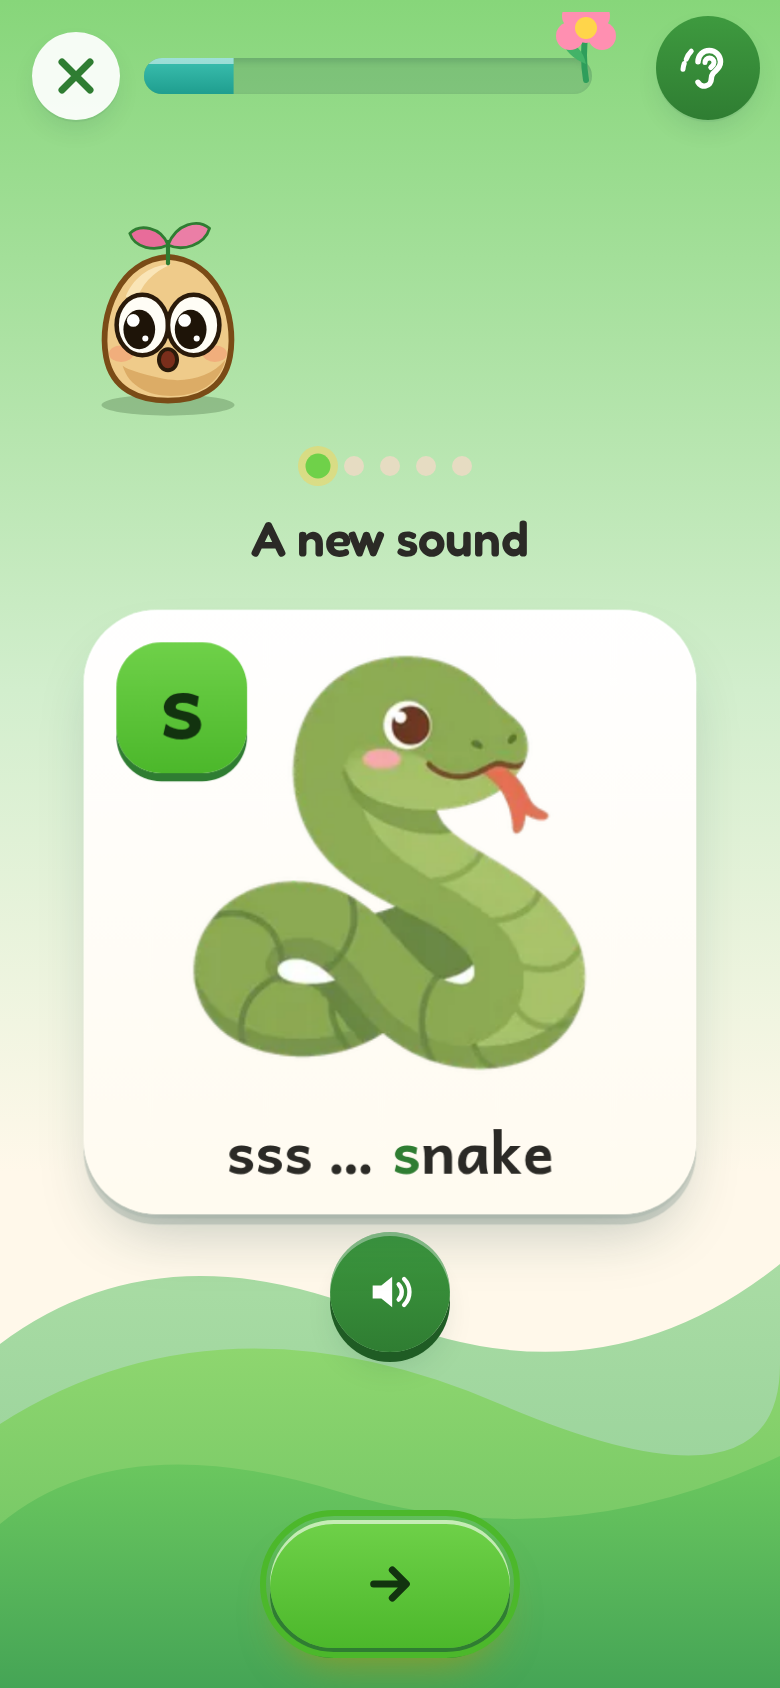
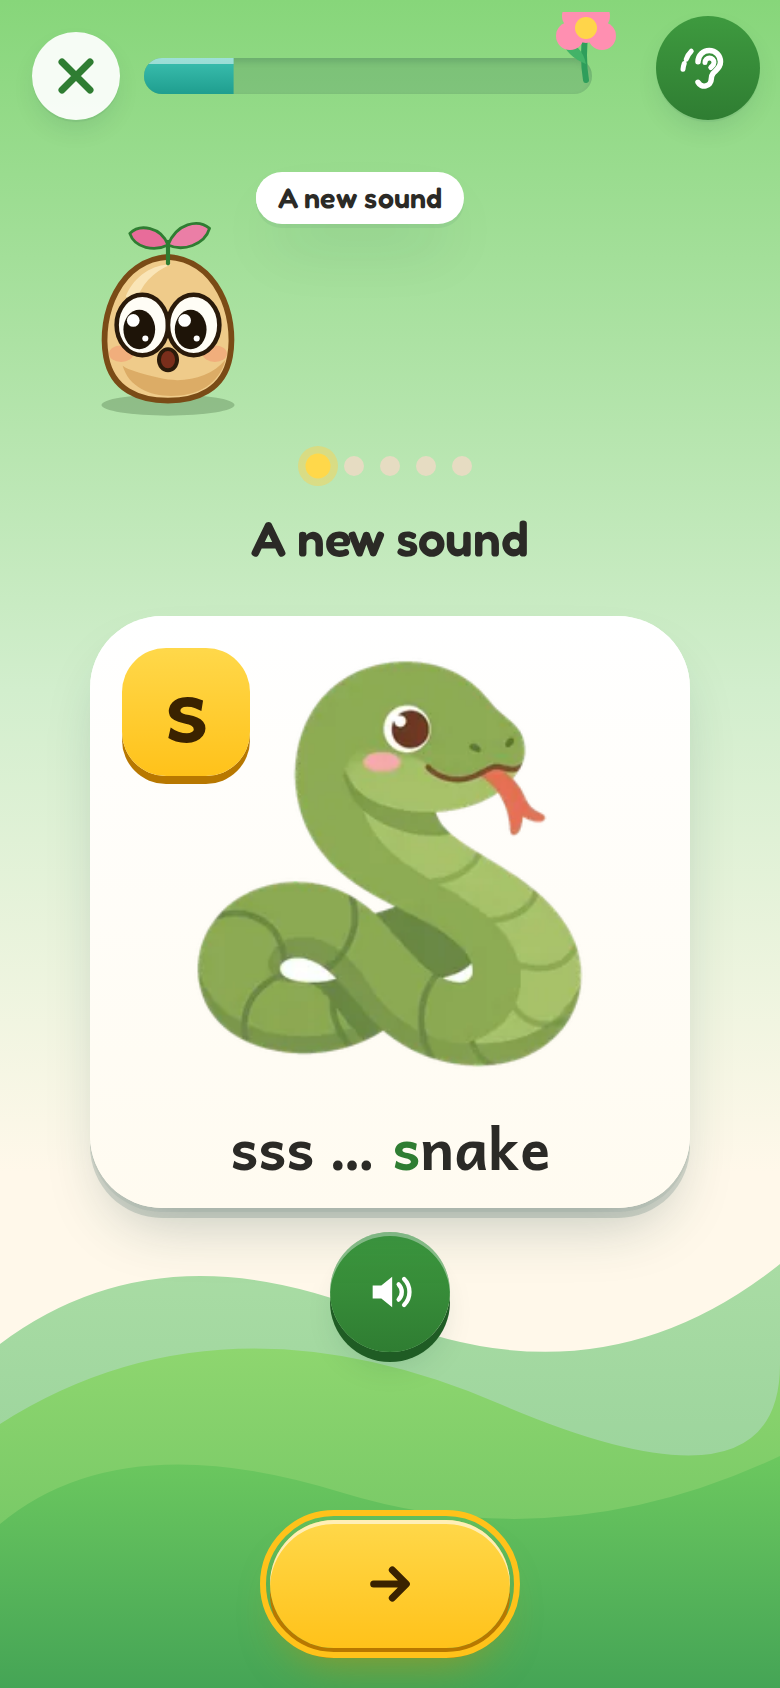
plan: PORT-VERDICT, README screenshots refreshed

diff --git a/plan/PORT-VERDICT.md b/plan/PORT-VERDICT.md
@@ -1,0 +1,55 @@
+# Port verdict: Sound Out into Sound Garden (branch `port-sound-out`)
+
+Written honestly, 2026-10-13. Source: Sound Out master f55dc34c (Back-nav table, Practice hub, Teach-with-Sound-Out PDF included).
+
+## What carried
+
+| Area | Result | Evidence |
+|---|---|---|
+| Levels 1-7, 108 lessons, lexicon, gate options | carried verbatim (`so/content`) | `check_practice_links.py`: 108 lessons + 7 level PDFs |
+| 43 isolated sounds (v2), 5-step meet-a-sound flow, all voiced clips | carried: 7,925 clips, 78 MB, one request per clip, cached as played | `check_ph_keys.py`: 112 v2 keys OK; drive: no missing clips |
+| Sounds, blending, words, sentences, read, listen, check | carried (the Sound Out engine runs unchanged) | `drive.py --until L1.02`, `drive_session.py` (L5-7): ALL CHECKS GREEN |
+| Failed check = not a pass, reteach redirect, park after 2 | carried | `check_failed_check.py`: GREEN |
+| Track A (child, Sprig) / Track B (grown-up, calm, no mascot) | carried | drivers walk both |
+| Sound it out | carried, URL `#/play/sound-it-out` | `drive_sayit.py`: GREEN |
+| Practice area (hear, trace, which word, replay) | carried, URL `#/play/practice` | `drive_practice.py`: GREEN |
+| Practice PDFs per lesson, level bundles, Teach-with-Sound-Out guide | carried; plus new `#/teach` page (no sum gate) with routine, do/don't, 109 PDF links | `check_urls.py`: every link 200 and `%PDF` |
+| Onboarding, nav, back/home everywhere | carried; browser Back mapped onto Sound Out's hardware-Back table | `check_nav.py`: 0 problems; `check_urls.py` GREEN |
+| Pedagogy fixes (whole word after sounds, no kid timer, helper mode, taught-letters-only foils) | carried as engine/data | `check_decodable.py` (see caveat 3) |
+| Finch rules (no account, no age question, no typing for pre-readers, no loss streaks, no paywall) | carried and now gated | `check_finch.py`: GREEN |
+| Shareable URLs | new: `#/play/lesson/L2.04`, practice, sound-it-out, teach; locked lessons stay locked; reload lands on Home | `check_urls.py` |
+| Offline PWA | new: service worker precaches the app, core clips (~3 MB) prefetched, other audio cached as played | `check_offline.py`: landing, app and teacher page render with the network cut |
+| Garden progress | new Home: one plot per lesson of the level you are on; seed when a lesson starts, sprout, leafy, bloom; Sprig grows with checked lessons; end-of-sitting plant; plants never wilt | screenshots in `shots/port/` |
+
+## What did not carry, or changed
+
+* Tilo (Sound Out's mascot) and his village, stickers art: replaced by Sprig and the garden. Sprig has one pose family (the WAAPI rig), so it has less body language than Tilo's pose art.
+* Sound Out's day-garden of "days practised" flowers: dropped for the progress garden (days are still counted in Practice).
+* Android/Capacitor shell: not in the web build (inert shims).
+* "Garden code" export from the old Sound Garden M1 plan: not built (progress stays in the browser's IndexedDB).
+* Sound Out's Home village scene, the review/demo pages (`compare.html`, `listen.html`, `voices.html`): not copied.
+
+## Blind critic rounds (2 fresh haiku critics per round, order swapped, screenshots vs Sound Out's current screens for function and Finch / Duolingo ABC / Teach Your Monster stills for look)
+
+* Round 1 (teaching flow, 14 pairs). Function: parity on 12 of 14; ours had the instruction Sound Out lacks on the tricky-word screen. Look: Sound Out won about 10 of 14. Reasons: Sprig read as sleepy or sad on celebration screens (lid at 45 percent), green forward button on green hills had no contrast, sun crowded the title, reward screen pushed Keep going / Home off a 844 px screen. All fixed (open eyes, gold forward button in lessons, sun moved, reward screen compacted: buttons bottom 830 of 844).
+* Round 2 (all slices, 26 pairs). Function: parity everywhere except the teacher page, which lacked a routine and do/don't list (added). Look: Sound Out still won most teaching screens on mascot presence (Tilo is bigger and more expressive); Sound Garden won the garden Home and the onboarding pair on clarity, with a visible bloom count and sound-labelled flowers that Sound Out's Home does not have. Round 2 flagged "mascot tiny": header Sprig enlarged from 96 to 124 px.
+* Not looped to a third round for every slice: the remaining look gap is art (Sprig vs Tilo), not function, and a CSS pass will not flip it.
+
+The honest read: function parity is achieved and gated; look parity is not. Against the reference stills, the lesson screens are Sound Out's layouts in Sound Garden colours, with the same large empty lower half on several screens, and a smaller mascot.
+
+## Caveats
+
+1. The 7,925 clips are Sound Out's. The isolated sounds and new clips were checked by machine (whisper and the gates there), not heard by a person. No human has listened to Sound Garden end to end.
+2. No test on a real phone or a real child. Nothing here replaces a playtest.
+3. Decodability gate (`tools/check_decodable.py`): 17 words in L2-L4 use a grapheme not yet taught (for example `sentence` with `ce`, `writing` with `wr`, `though/through` with `ough`, `suggestion` with `ion`). They are inherited from Sound Out's content and listed in `plan/decodable-known.txt`; the gate fails on any new one. One is in Level 1 (`log`, L1.05 check). Doubles (`ll`, `ff`) and two-consonant clusters are treated as their letters.
+4. Bundle: first load for the landing page 9.7 KB gzip. The app chunk is large (about 2.1 MB JS, 364 KB gzip for the data chunk, because lexicon, options and the audio index are bundled). Audio is lazy per clip, not per level bundle. Total repo adds about 106 MB (audio 78 MB, PDFs 23 MB, pictures 6 MB).
+5. A mid-lesson reload lands on Home (a half sitting is not resumable), and a shared lesson link needs a profile on that device to open the lesson; otherwise onboarding runs first, then Home.
+6. Sound Out drivers were reused through `tools/so-compat/` (a `#/play` goto shim and a doorway `vite.config.js`). Re-copy and `patch_drivers.sh` after a `--pull`. The full 299-sitting walk (`drive.py` with no `--until`) was started once and stopped as too slow; L1.01-L1.02 for Track A and the L5-7 session walks are green, `drive_levels.py` for L2-L4 was not re-run in this port.
+7. Sprig colour pick in onboarding replaces Tilo's scarf colour (same `tiloLook` field in the profile).
+8. Upstream drift: `tools/sync_sound_out.py --pull` warns when Sound Out changes a file that an overlay replaces (`main.js`, `home.js`, `tilo.js`, `tilo-look.js`).
+
+## Not done
+
+* Push (not pushed, as instructed).
+* Real-device performance on a cheap Android (Sprig rig is the same WAAPI rig that passed the earlier phone-less spike; the larger app chunk is untested there).
+* A third look round and a Sprig pose upgrade (more states for "wrong", "listening" and a waving hello) to close the mascot-presence gap.
